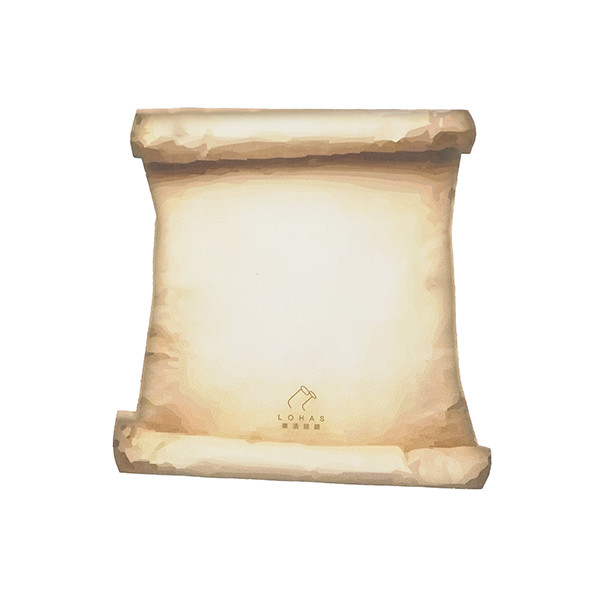
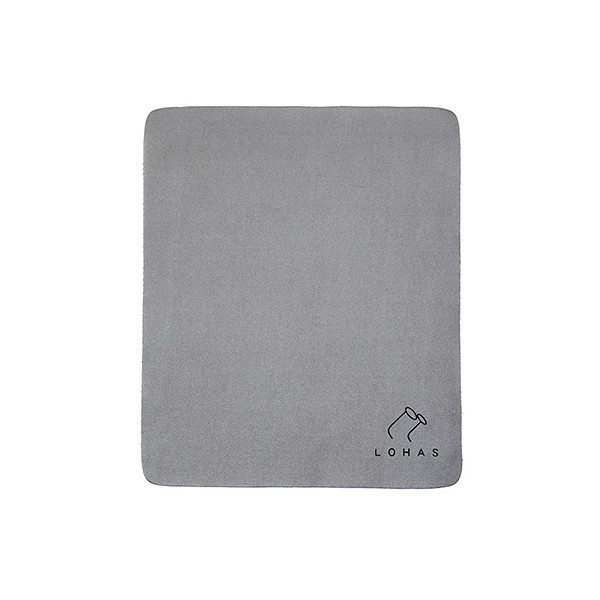
付費眼鏡布改用商城 2943(創作科技布,無規格):2884 的顏色在規格第三層,商城官網購物車只收第二層
- cloth-shop.html:nid 2943、拿掉選顏色、底圖換灰布商品照、刻圖範圍置中重量
- shop.ts:PAID_PRODUCTS 2884 → 2943,拿掉「一定要選顏色」(待部署)
- 加工中心模擬器:付費眼鏡布畫 150×180 灰布
- 頁面仍關閉(open:false),shop 部署並測過購物車才開

diff --git a/cloth-shop.html b/cloth-shop.html
@@ -14,7 +14,7 @@ j=d.createElement(s),dl=l!='dataLayer'?'&l='+l:'';j.async=true;j.src=
 <!-- OpenAI Pixel(ChatGPT 廣告)。每頁只能一份 —— 安裝前會檢查 oaiq 是否已存在。 -->
 <script>!function(w,d,s,u){if(w.oaiq)return;var q=function(){q.q.push(arguments)};q.q=[];w.oaiq=q;var j=d.createElement(s);j.async=1;j.src=u;var f=d.getElementsByTagName(s)[0];f.parentNode.insertBefore(j,f)}(window,document,"script","https://bzrcdn.openai.com/sdk/oaiq.min.js");oaiq("init",{pixelId:"NjscxQ8XG8RS61Uqj5n6JA",debug:true});</script>
   <title>客製眼鏡布 · LOHAS 樂活眼鏡</title>
-  <meta name="description" content="把喜歡的圖印在自己的眼鏡布上。不限生日，四種顏色，自己挑圖、自己設計。">
+  <meta name="description" content="把喜歡的圖印在自己的眼鏡布上。不限生日，自己挑圖、自己設計。">
   <link rel="canonical" href="https://www.lohasglasses.com/cloth-shop.html">
 
   <!-- ⚠ app-mode 不要 defer：class 要在頁面畫出來之前掛上。 -->
@@ -68,7 +68,7 @@ height="0" width="0" style="display:none;visibility:hidden"></iframe></noscript>
     <div class="cl-title-line"></div>
     <!-- 與生日免費眼鏡布(cloth.html)分清楚:兩頁長得很像,客人容易走錯。 -->
     <p class="cl-field-hint" style="text-align:center;margin:10px 0 0">
-      不限生日，四種顏色，一次一條。壽星每年一條的免費眼鏡布在
+      不限生日，一次一條。壽星每年一條的免費眼鏡布在
       <a href="cloth.html">生日眼鏡布</a>。
     </p>
   </div>
@@ -101,14 +101,14 @@ height="0" width="0" style="display:none;visibility:hidden"></iframe></noscript>
     <!-- ===== 左:預覽 ===== -->
     <div class="cl-left">
       <div class="cl-stage" id="csStage">
-        <!-- 卷軸款的白底商品照(商城 2884)。四個顏色暫時共用這一張,
-             之後有各顏色的平拍照再依選的顏色換。 -->
-        <img class="cl-base" id="csBase" src="images/cloth-shop-base.jpg?v=20261009"
+        <!-- 商城 2943「雷刻小物｜創作科技布」的白底商品照(灰色,單一款式)。 -->
+        <img class="cl-base" id="csBase" src="images/cloth-shop-base.jpg?v=20261012-2943"
              alt="客製眼鏡布" draggable="false">
 
         <!-- 可雕刻範圍(90 × 90 mm,與生日眼鏡布的圖最大 9 cm 一致)。
              位置由下方 LOHAS_DESIGN_PAGE.plate 決定(case.js 套用),
-             是對著卷軸照片量的:卷軸寬 150 mm、框放在上方卷筒與 LOHAS 標誌之間。
+             是對著商品照量的:布在 600² 照片上佔 318 × 381 px(= 150 × 180 mm,
+             一 mm 約 2.12 px),框放在布的正中間,下緣在右下角 LOHAS 標誌之上。
              換底圖一定要重量一次。 -->
         <div class="cs-plate" id="csPlate">
           <!-- 外框與四個節點放在 overlay 【裡面】,這樣它們會跟著一起
@@ -200,14 +200,6 @@ height="0" width="0" style="display:none;visibility:hidden"></iframe></noscript>
         </div>
         <p class="cl-field-hint">字級不用在這裡調，放上去之後拉四個角就好。</p>
         <button type="button" class="cl-apply" id="csTextApply" disabled>放 到 布 上</button>
-      </div>
-
-      <!-- 顏色。選項從商城讀(case.js 的 renderVariants),庫存也以商城為準。
-           ⚠ 四個顏色暫時共用同一張預覽圖,實際以這裡選的顏色製作。 -->
-      <div class="cl-card">
-        <p class="cl-card-title">選顏色<span class="cl-req">*</span></p>
-        <div class="cs-variants" id="csVariants"><p class="cl-field-hint">顏色載入中…</p></div>
-        <p class="cl-field-hint">預覽圖是同一張，實際會用你選的顏色製作。</p>
       </div>
 
       <!-- 放在哪裡 -->
@@ -326,16 +318,20 @@ height="0" width="0" style="display:none;visibility:hidden"></iframe></noscript>
 <script src="js/api/api-core.js?v=20260517-1800"></script>
 <script src="js/api/api-store.js?v=20260517-1800"></script>
 <script src="js/store-data.js?v=20260814-kaoying"></script>
-<!-- 頁面設定:付費客製眼鏡布(商城 2884)。js/case.js 讀這一份,沒有它就是眼鏡盒。
-     ⚠ nid 也要在 shop.ts 的 PAID_PRODUCTS 裡(2884 → cloth),否則付款後不會進加工中心。 -->
+<!-- 頁面設定:付費客製眼鏡布(商城 2943「雷刻小物｜創作科技布」,2026-10-12 由 2884 改過來)。
+     js/case.js 讀這一份,沒有它就是眼鏡盒。
+     ⚠ nid 也要在 shop.ts 的 PAID_PRODUCTS 裡(2943 → cloth),否則付款後不會進加工中心。
+     2943 沒有規格,所以 variants: false;2884 的三層規格(顏色在第三層)商城的
+     官網購物車介面收不了,改用這一件。 -->
 <script>
   window.LOHAS_DESIGN_PAGE = {
-    product: 'cloth', noun: '眼鏡布', page: 'cloth-shop.html', nid: 2884,
+    product: 'cloth', noun: '眼鏡布', page: 'cloth-shop.html', nid: 2943,
     areaAspect: 1,                                                    // 90 × 90 mm
-    plate: { left: 0.3167, top: 0.265, width: 0.3767, height: 0.3767 },
-    basis: 'cloth_plate', filePrefix: 'clothshop-', variants: true,
+    plate: { left: 0.3425, top: 0.335, width: 0.3183, height: 0.3183 },   // 布中間 90 × 90 mm
+    basis: 'cloth_plate', filePrefix: 'clothshop-', variants: false,
     /* 2026-10-12 商城已開客製、灰色有庫存,但 shop / shop-webhook 還沒部署付費眼鏡布那一版 ——
-       這時讓人結帳,付了錢也進不了加工中心。四支函式部署並自檢完才改成 true。 */
+       這時讓人結帳,付了錢也進不了加工中心。四支函式部署並自檢完才改成 true。
+       2026-10-12 改成 2943 之後,shop 要再部署一次(PAID_PRODUCTS)才能開。 */
     open: false
   };
 </script>

diff --git a/docs/edge-functions/shop.ts b/docs/edge-functions/shop.ts
@@ -58,7 +58,7 @@
    然後用瀏覽器開這支的網址就知道線上是不是那一份。
 
    ⚠ 這是給人看的字串,不參與任何邏輯。不要拿它來做版本判斷分支。 */
-const CODE_VERSION = '2026-10-09 · 付費眼鏡布';
+const CODE_VERSION = '2026-10-12 · 付費眼鏡布改 2943';
 
 /* ===== 客製眼鏡盒 =====
    -----------------------------------------------------------------
@@ -68,10 +68,12 @@ const CODE_VERSION = '2026-10-09 · 付費眼鏡布';
 
    2026-10-09 起不只眼鏡盒:付費客製品是一張對照表,nid → 進加工中心時的 product。
      2881 雷刻小物|木紋眼鏡盒 → 'case'(js/case.js 的 CHECKOUT.NID)
-     2884 雷刻小物|創作眼鏡布 → 'cloth'(付費眼鏡布,cloth-shop.html 的頁面設定)
+     2943 雷刻小物|創作科技布 → 'cloth'(付費眼鏡布,cloth-shop.html 的頁面設定)
+   2026-10-12 由 2884 改成 2943:2884 的顏色在規格第三層,商城的官網購物車介面
+     (SiteCartApi)只收第二層的 sid,回「規格不屬於此商品」。2943 沒有規格。
    ⚠ 前端的 nid 與這張表不一致的話:那一單會照太陽眼鏡的規則送出去,
      旋轉被丟掉、門市沒存,付款後也不會進加工中心。而且完全不會報錯。 */
-const PAID_PRODUCTS: Record<number, 'case' | 'cloth'> = { 2881: 'case', 2884: 'cloth' };
+const PAID_PRODUCTS: Record<number, 'case' | 'cloth'> = { 2881: 'case', 2943: 'cloth' };
 
 // ⚠ 只在 Dashboard 填,不要提交回 GitHub
 const FALLBACK_SITE_KEY = '';
@@ -539,13 +541,10 @@ Deno.serve(async (req) => {
       if (!store) {
         return reply('006', { message: '請選擇要到哪一家門市拿' }, 400);
       }
-      /* 付費眼鏡布有顏色規格,一定要帶 sid(商城也會擋,但在這裡擋客人看得懂)。
-         variant 是顏色名稱,存進送單與加工中心,師傅據此拿布。
-         ⚠ 只在有值時才放進去 —— 眼鏡盒沒有這一欄的值,
-           variant 欄位(docs/cloth-paid.sql)還沒建的話也不會讓眼鏡盒壞掉。 */
-      if (paidProduct === 'cloth' && !(Number(body.main.sid) > 0)) {
-        return reply('006', { message: '請選擇眼鏡布的顏色' }, 400);
-      }
+      /* variant 是規格名稱(例如顏色),存進送單與加工中心,師傅據此拿布。
+         有沒有規格、要不要帶 sid 由商城判斷(有規格沒帶 sid 它會擋)——
+         2943 沒有規格,這裡不再要求 sid(2884 那時有「一定要選顏色」的檢查,已拿掉)。
+         ⚠ 只在有值時才放進去 —— 沒有規格的商品這一欄就是 null。 */
       const variant = String(body.main.variant ?? '').replace(/[\u0000-\u001f<>]/g, '').trim().slice(0, 40);
       caseInfo = {
         product: paidProduct,

diff --git a/js/cloth-lab.js b/js/cloth-lab.js
@@ -91,7 +91,7 @@
     return Math.max(10, Math.min(CASE_AREA_MM.w, Math.round(s * CASE_AREA_MM.w)));
   }
 
-  /* 付費客製眼鏡布(商城 2884,2026-10-09)。
+  /* 付費客製眼鏡布(商城 2943,2026-10-09 建置,10-12 由 2884 改)。
      與生日眼鏡布同一張表、同一個 product = 'cloth',差別是【有商城訂單編號】。
      它的頁面(cloth-shop.html)跟眼鏡盒是同一套,所以位置是對著固定的
      刻圖範圍量的(placement.basis = 'cloth_plate'):90 × 90 mm,
@@ -109,8 +109,9 @@
     return Math.max(10, Math.min(CLOTH_AREA_MM.w, Math.round(s * CLOTH_AREA_MM.w)));
   }
 
-  /* 模擬器的布色。對照商城 2884 的四個顏色,只求師傅看得出深淺對比,
-     不是色票 —— 實際顏色以手上那條布為準。對不到的名稱用生日眼鏡布的米色。 */
+  /* 模擬器的布色。只求師傅看得出深淺對比,不是色票 —— 實際顏色以手上那條布為準。
+     2943 只有灰色、沒有規格(variant 是 null),所以付費眼鏡布預設畫灰色;
+     名稱表留著給日後有顏色規格的商品用。 */
   var CLOTH_COLORS = { '卡其': '#cdb88f', '粉紅': '#e9c3c6', '灰色': '#a3a3a3', '咖啡': '#6e4f3a' };
 
   /* 退件原因。代碼與後端 cloth-admin 的 REJECT_CODES 必須一致 ——
@@ -587,7 +588,9 @@
     }
     /* 付費眼鏡布:布的正中間畫 90 × 90 的刻圖範圍,圖照客人擺的位置放;布色照他選的顏色。 */
     if (isClothPlate(it)) {
-      return { w: CLOTH_MM, h: CLOTH_MM, color: CLOTH_COLORS[it.variant] || '#ece5d7',
+      /* 2943 的布是 150 × 180(由商品照比例 318:381 推得),刻圖範圍在正中間 ——
+         與 cloth-shop.html 的 plate 一致。實際尺寸若不同,兩邊要一起改。 */
+      return { w: CLOTH_MM, h: 180, color: CLOTH_COLORS[it.variant] || CLOTH_COLORS['灰色'],
                name: (it.variant || '') + '布', area: CLOTH_AREA_MM };
     }
     return { w: CLOTH_MM, h: CLOTH_MM, color: '#ece5d7', name: '布', area: null };

diff --git a/custom.html b/custom.html
@@ -98,14 +98,14 @@ height="0" width="0" style="display:none;visibility:hidden"></iframe></noscript>
       </div>
     </a>
 
-    <!-- ===== 客製眼鏡布(付費,商城 2884,2026-10-09)=====
+    <!-- ===== 客製眼鏡布(付費,商城 2943「創作科技布」,2026-10-12 由 2884 改)=====
          頁面 cloth-shop.html 已在線上,但商城那邊還沒開客製、也沒庫存,
          所以這張先放「即將推出」(刻意用 <div> 不是 <a>,理由同上)。
          開賣時:<div class="cc-card cc-card--soon"> 換成 <a class="cc-card" href="cloth-shop.html">、
          標籤換成 cc-tag--live「開放中」、底下補一行 cc-card-go。 -->
     <div class="cc-card cc-card--soon">
       <div class="cc-card-img">
-        <img src="images/cloth-shop-base.jpg?v=20261009" alt="客製眼鏡布" loading="lazy">
+        <img src="images/cloth-shop-base.jpg?v=20261012-2943" alt="客製眼鏡布" loading="lazy">
       </div>
       <div class="cc-card-body">
         <h2 class="cc-card-name">
@@ -113,7 +113,7 @@ height="0" width="0" style="display:none;visibility:hidden"></iframe></noscript>
           <span class="cc-tag cc-tag--soon">即將推出</span>
         </h2>
         <p class="cc-card-desc">
-          不限生日，想做就做。四種顏色，自己挑圖、自己畫或上傳，
+          不限生日，想做就做。自己挑圖、自己畫或上傳，
           印成只有你有的那一條。
         </p>
         <p class="cc-card-meta">線上刷卡付款，做好送到你選的門市</p>

diff --git a/cloth-lab.html b/cloth-lab.html
@@ -218,6 +218,6 @@
   <div id="labQrTmp" style="display:none"></div>
 
   <script src="js/dxf.js?v=20260903-rings"></script>
-  <script src="js/cloth-lab.js?v=20261009-paidcloth"></script>
+  <script src="js/cloth-lab.js?v=20261012-2943"></script>
 </body>
 </html>

diff --git a/CLAUDE.md b/CLAUDE.md
@@ -713,7 +713,7 @@ check (store_erpid is not null or created_at < '2026-09-14 12:00:00+08')
   依區塊的 `data-wall-product` 決定。沒有已完成的作品時整區隱藏。
 - 刻圖費已含在售價內,頁面不要寫「另加刻圖費」。
 
-## 🚨 付費客製眼鏡布(2026-10-09 建置,商城 2884「雷刻小物｜創作眼鏡布」)
+## 🚨 付費客製眼鏡布(2026-10-09 建置,商城 **2943**「雷刻小物｜創作科技布」NT$200)
 
 不限生日、要付錢的眼鏡布。**頁面與流程整套沿用眼鏡盒**,不是沿用生日眼鏡布:
 
@@ -728,26 +728,37 @@ check (store_erpid is not null or created_at < '2026-09-14 12:00:00+08')
 **「付費」的判斷是 `order_no` 有值**,不是另開 product。這樣製作、製作單、
 門市掃碼到店、App 取件都不用改 —— 那些地方本來就把它當眼鏡布。
 
+### 🚨 商城商品不能有三層規格(2026-10-12 踩到,因此從 2884 換成 2943)
+
+原本用 2884「創作眼鏡布」(卡其/粉紅/灰色/咖啡)。它的規格是
+`517 創意小物顏色 → 525 款式 → 顏色`,**顏色在第三層**。商城給官網用的
+`SiteCartApi`(`checkSpecification` / `hasStock`)只認第二層 sid,
+送顏色就回「規格不屬於此商品」;送 525 則庫存是 0、也分不出顏色。
+商城原生購物車用 `third_sid` / `third_sid_amount` 處理第三層,官網這條路沒有。
+→ 改用沒有規格的 2943。日後要賣多色款,**商品規格要設成兩層**(顏色直接掛在第一層底下),
+或請商城讓 `SiteCartApi` 支援第三層。
+
 改了要一起改的地方:
 
 - `case.js` 讀頁面上的 `window.LOHAS_DESIGN_PAGE`(沒有就是眼鏡盒)。
-  `cloth-shop.html` 那份設定的 `nid` 要同時在 `shop.ts` 的 **`PAID_PRODUCTS`**(2884 → `'cloth'`),
-  否則送出去會被當成太陽眼鏡,付了錢也進不了加工中心。
+  `cloth-shop.html` 那份設定的 `nid` 要同時在 `shop.ts` 的 **`PAID_PRODUCTS`**(2943 → `'cloth'`),
+  否則送出去會被當成太陽眼鏡,付了錢也進不了加工中心。**改 nid 一定要重新部署 `shop`。**
+- 販售開關是各頁自己的 `LOHAS_DESIGN_PAGE.open`(`false` = 只有 `?test=1` 能結帳),
+  不要回頭改 `case.js` 的 `CHECKOUT.OPEN` —— 那會同時關掉眼鏡盒。
 - `cloth-shop.html` 的 HTML 是從 `case.html` 複製的 —— **改 `case.html` 的結構時這一頁要一起看**
   (芽芽教學的 `sel` 同理,不過這一頁沒掛教學)。
-- 顏色(卡其/粉紅/灰色/咖啡)從商城規格讀,送 `main.sid` + `main.variant`;
-  `variant` 存進 `design_submissions` 與 `cloth_designs`(`docs/cloth-paid.sql` 加的欄位),
-  加工中心、後台與製作單都印出來 —— **師傅靠它拿布**。
-- 預覽底圖 `images/cloth-shop-base.jpg` 是白底卷軸照,四色暫時共用;
-  刻圖範圍框的位置寫在 `LOHAS_DESIGN_PAGE.plate`,**換照片要重量**。
+- 規格(顏色)的機制保留著:`variants: true` 時從商城規格讀、送 `main.sid` + `main.variant`,
+  `variant` 存進 `design_submissions` 與 `cloth_designs`(`docs/cloth-paid.sql` 已跑),
+  加工中心、後台與製作單都會印 —— 師傅靠它拿布。2943 沒有規格,所以是 `false`、`variant` 為 null。
+- 預覽底圖 `images/cloth-shop-base.jpg` 是 2943 的灰布商品照(600²,布佔 318 × 381 px ≈ 150 × 180 mm);
+  刻圖範圍框寫在 `LOHAS_DESIGN_PAGE.plate`(布的正中間),**換照片要重量**。
 - 加工中心:`basis === 'cloth_plate'` 的刻圖寬度預設 `scale × 90`;
-  EZCAD 模擬器畫 150 布、中間 90 × 90 範圍、布色照 `variant`。
+  EZCAD 模擬器畫 150 × 180 的灰布、正中間 90 × 90 範圍(`cloth-lab.js` 的 `boardFor`)。
+  布的實際尺寸若不是 150 × 180,`boardFor` 與頁面的 `plate` 要一起改。
 
-⚠ **部署順序**:`docs/cloth-paid.sql` 先跑(加 `variant` 欄位、放寬 product 值域),
-再部署 `cloth-admin` / `shop-webhook` / `shop` / `cloth`。反過來的話這幾支一 select `variant` 就 500。
-
-⚠ **開賣前**:商城 2884 要勾「可進行客製文創」並補四色庫存(建置當天是 0、`can_design` false,
-頁面會顯示「商品未開放客製」)。開賣時把 `custom.html` 第三張卡從「即將推出」換成連結,
+⚠ **開賣前**:`shop` 部署 2943 那一版並自檢 → `?test=1` 推一次購物車(不付款)確認
+付款方式只剩線上刷卡、門市鎖定、數量上限 1,並看一台一般商品的購物車 →
+`cloth-shop.html` 的 `open` 改 `true`、`custom.html` 第三張卡從「即將推出」換成連結、
 header 與頁尾(含後台「頁尾設定」的 DB 頁尾)的「客製眼鏡布」改名「生日眼鏡布」並加上這一頁。
 
 ## 2026-08-25 這一天加的東西(容易漏看)
